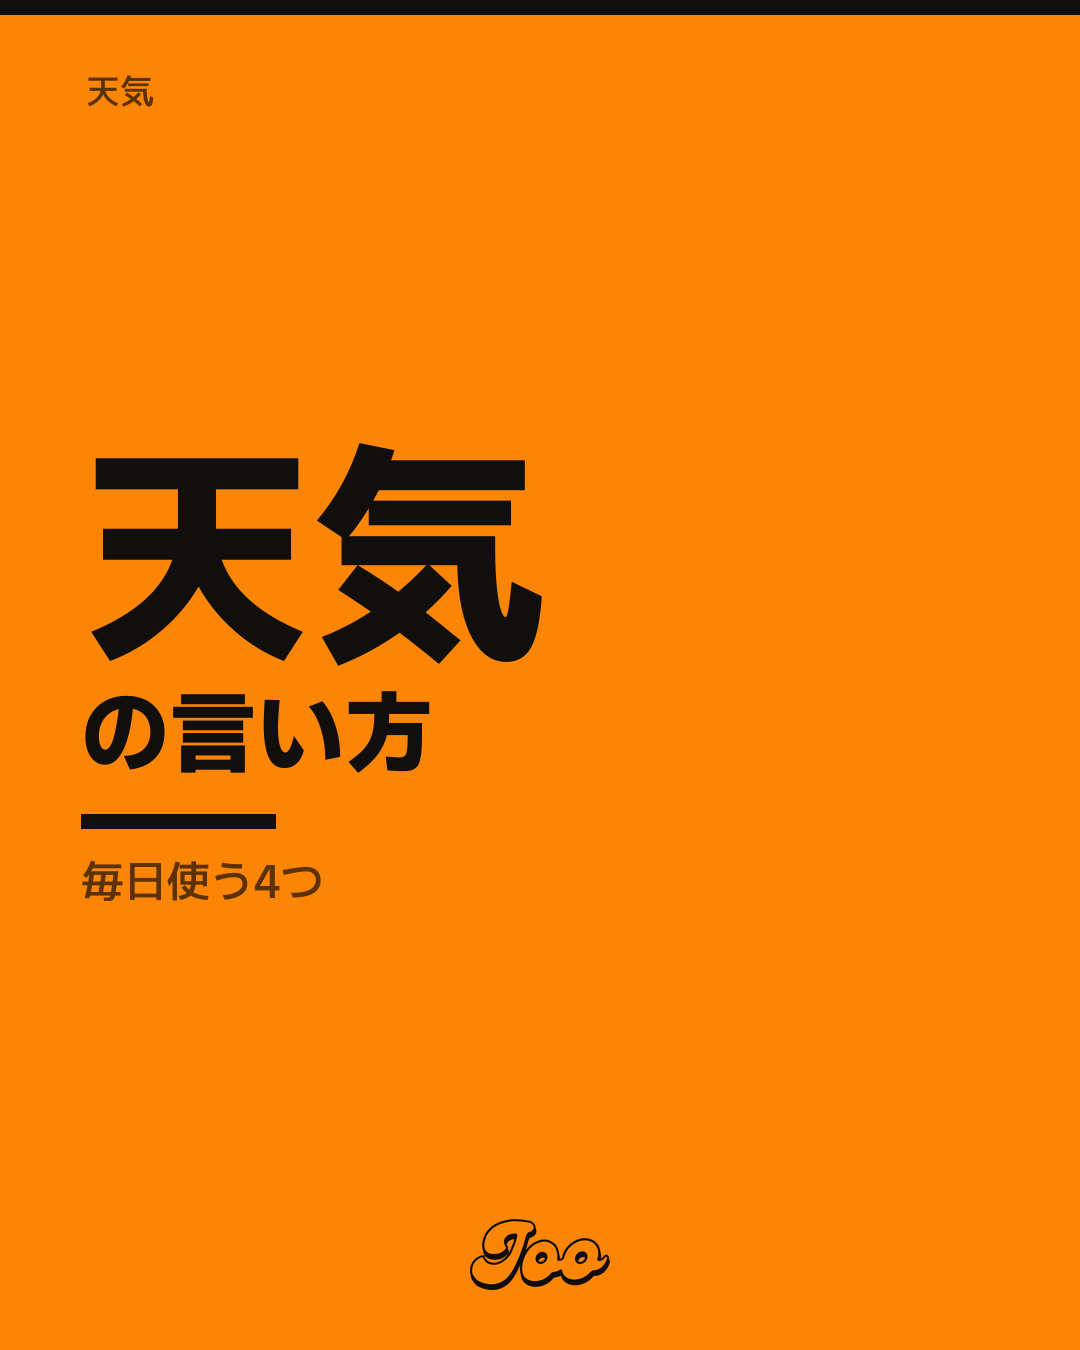
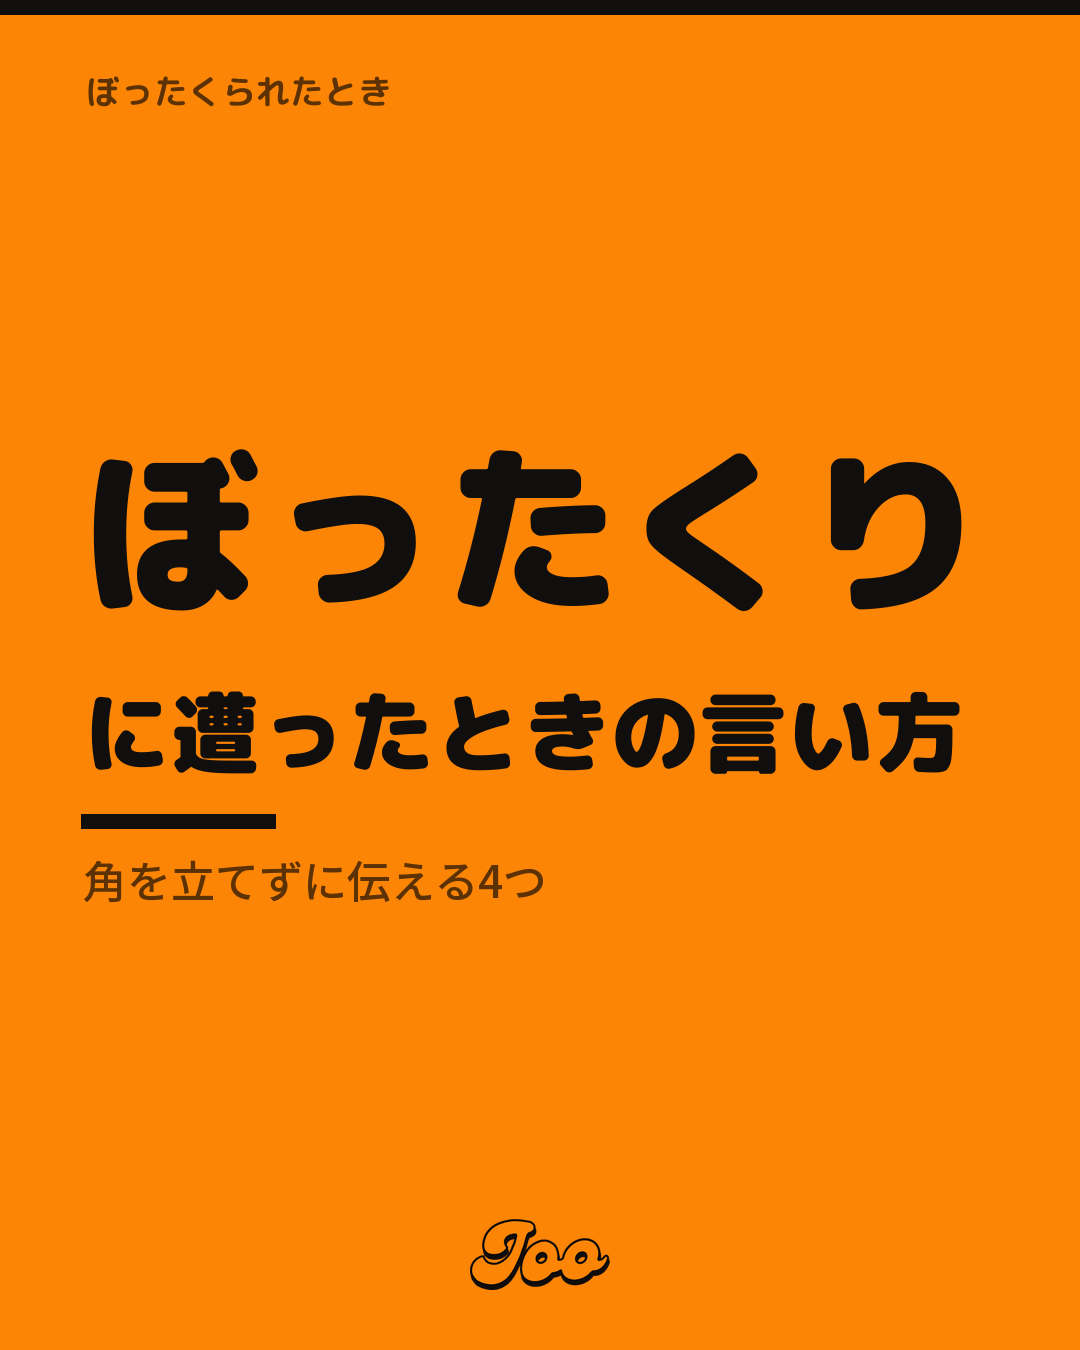
24·27일차 이미지 교체 (바가지 썼을 때, 약속을 못 지킬 때)
Claude-Session: https://claude.ai/code/session_014KcaNubLYfQzBws3QcAx4A

diff --git a/상태.md b/상태.md
@@ -35,7 +35,7 @@
 | 일정 좀 바꿔도 될까? | イルッチョン チョム パックォド トェルッカ | 予定変えてもいい？ |
 | 다음에 꼭 만나자 | タウメ ッコク マンナジャ | 次は必ず会おう |
 
-**Day 3은 반영 완료.** Day 24·27은 계획.json·캡션만 반영했다(10/14). **이미지는 아직 옛 내용(날씨·고마워)이다.** 맥에서 `card.py 24`, `card.py 27`로 다시 만들어 `cards/`에 넣어야 한다. 24일차 인스타 발행(11/5)·27일차(11/8) 전에 끝낼 것.
+**Day 3·24·27 모두 반영 완료.** Day 24·27 이미지는 클라우드에서 `card.py` 없이 비슷한 폰트(Black Han Sans·M PLUS Rounded 1c)로 다시 그렸다. Day 3 원본과 대조해 위치는 몇 px 이내로 맞췄지만, 맥의 `card.py 24`·`card.py 27`로 만든 것과 글꼴이 조금 다를 수 있다. 원본과 똑같이 하려면 맥에서 다시 만들어 덮어쓴다.
 
 ## 다음 달(2개월차)
 상황별 실전 회화 30일로 짠다. 입문용(인사·숫자·날씨)은 넣지 않는다.
